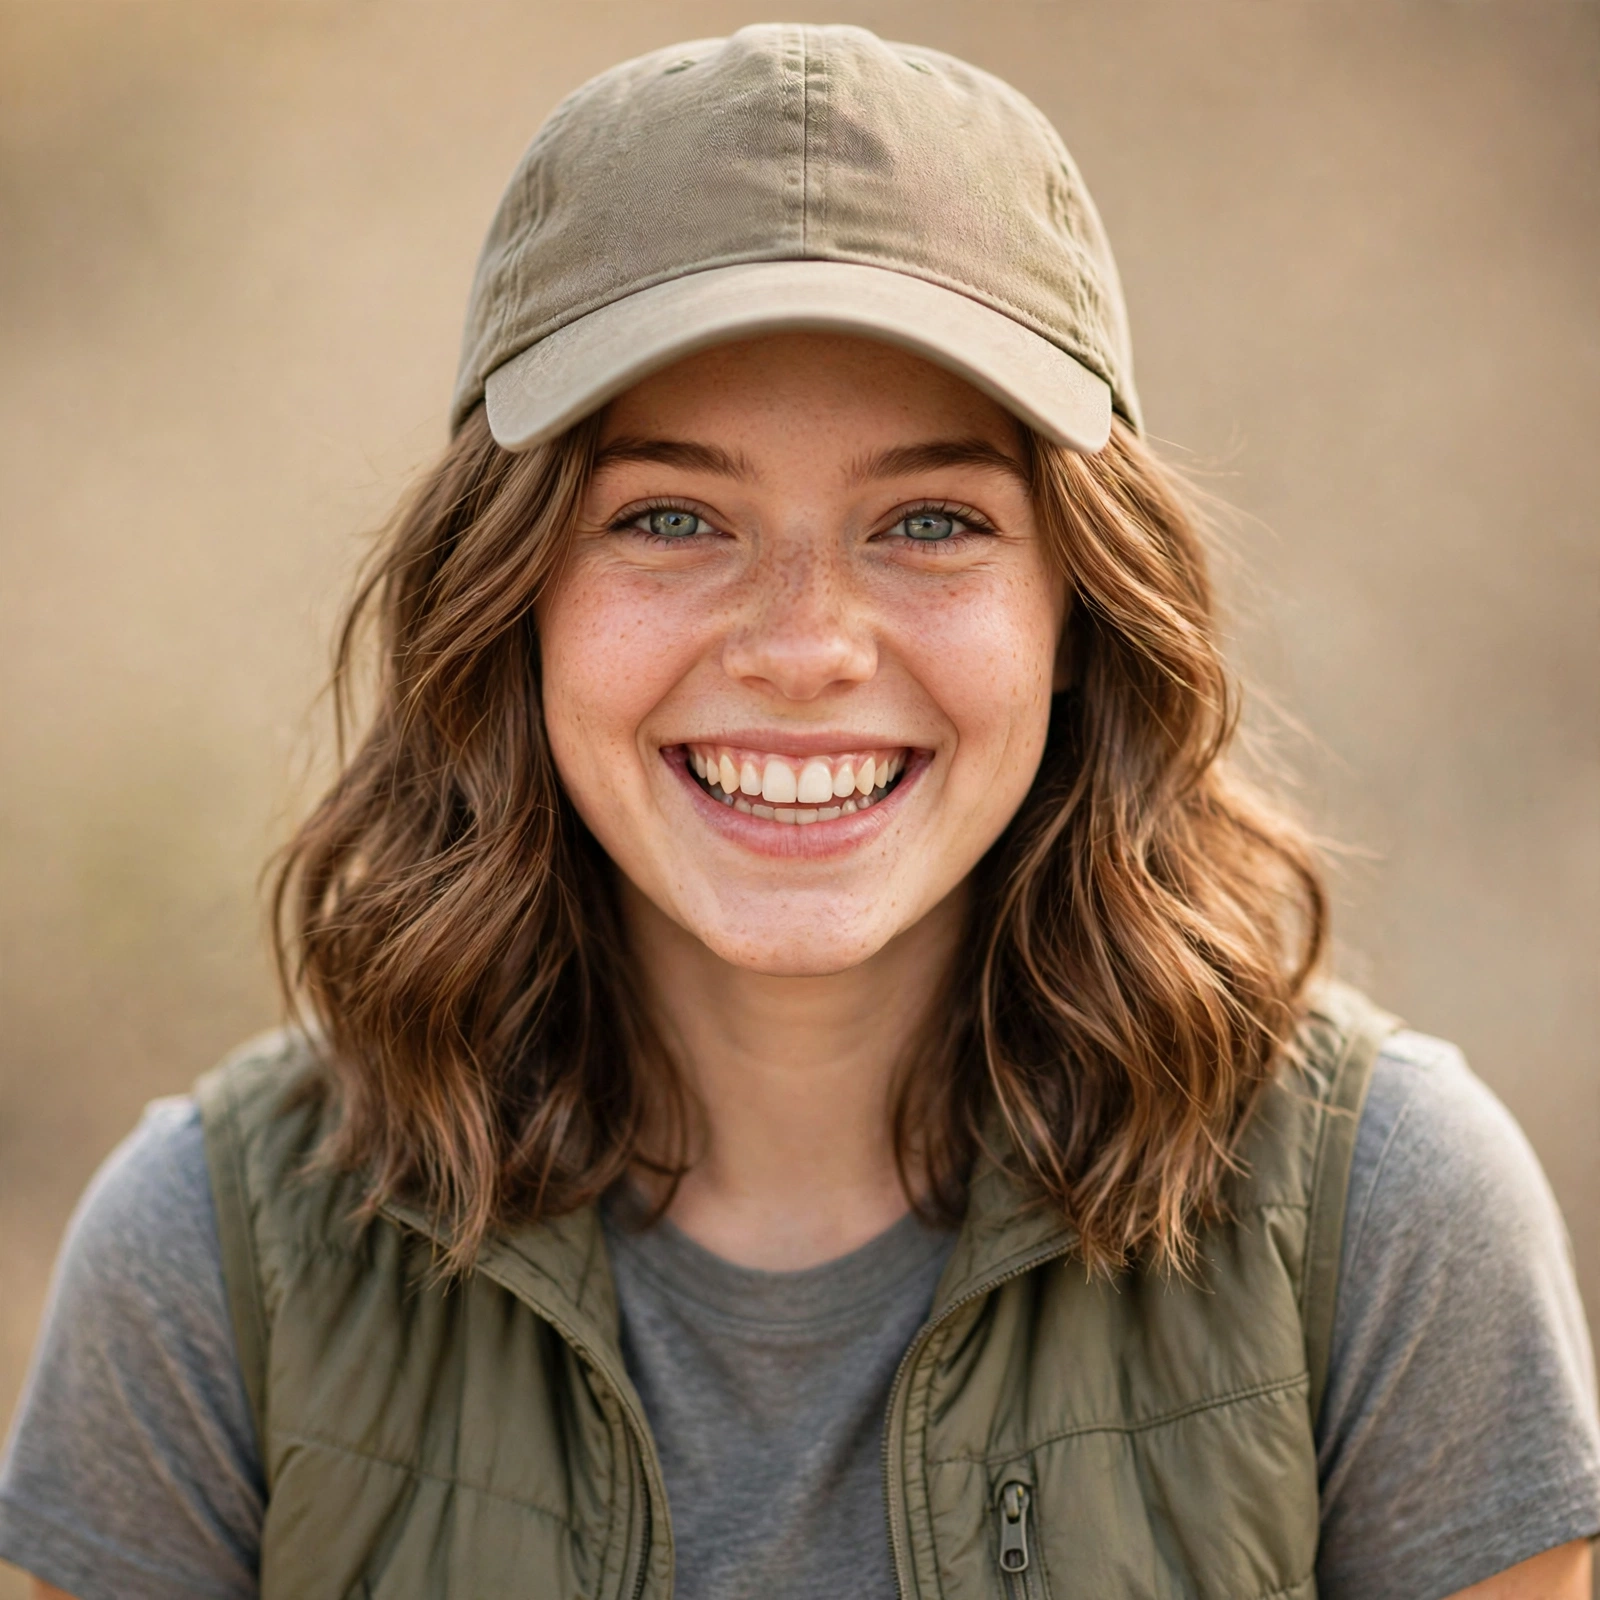
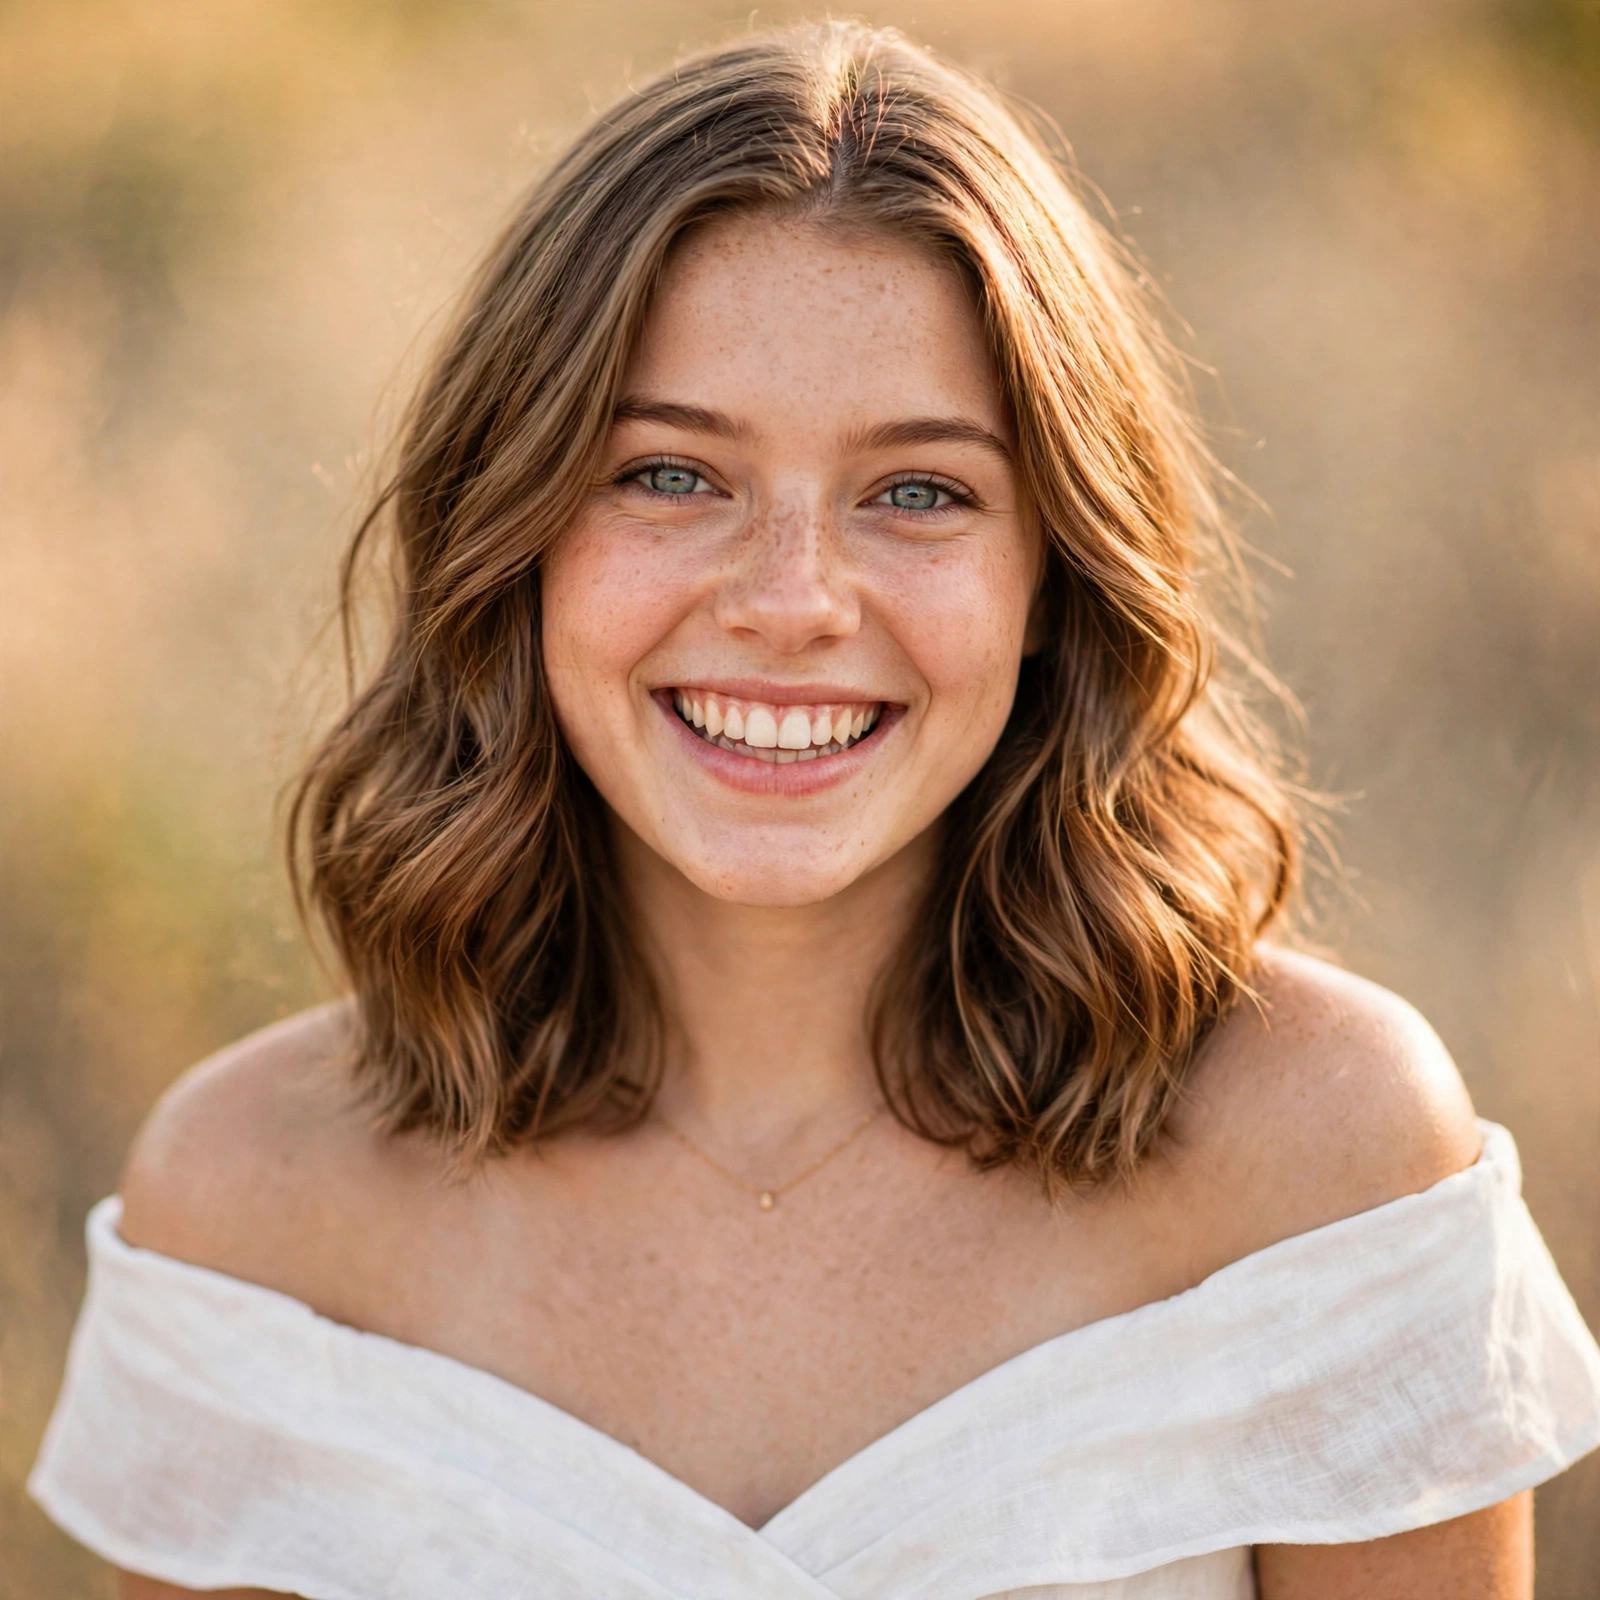
Feat: Emily outfit upgrade — fancy summer wardrobe, same face
- Avatar + gallery 1-5 all new outfits (white off-shoulder dress,
  linen trail look, coral floral dress, white tennis dress,
  emerald satin cafe dress, blue chiffon maxi boardwalk)
- Same face throughout (wavy light-brown hair, green eyes, freckles)
- Gallery grows 4 -> 5 photos (new 5.jpg added to data)
- Summer-only rule kept: light clothes, no thick/coat/knit, no swimwear

diff --git a/src/lib/exchangeAiPartners.ts b/src/lib/exchangeAiPartners.ts
@@ -1501,7 +1501,7 @@ export const AI_PARTNERS: AiPartner[] = [
     greeting:
       "Hello! I'm Emily, an AI practice partner. Let's practice Korean — do you like hiking?",
     avatar: '/exchange-ai-avatars/emily.png',
-    gallery: ['/exchange-ai-avatars/emily/1.jpg', '/exchange-ai-avatars/emily/2.jpg', '/exchange-ai-avatars/emily/3.jpg', '/exchange-ai-avatars/emily/4.jpg'],
+    gallery: ['/exchange-ai-avatars/emily/1.jpg', '/exchange-ai-avatars/emily/2.jpg', '/exchange-ai-avatars/emily/3.jpg', '/exchange-ai-avatars/emily/4.jpg', '/exchange-ai-avatars/emily/5.jpg'],
     heightCm: 173,
     weightKg: 55,
     bustCm: 84,
